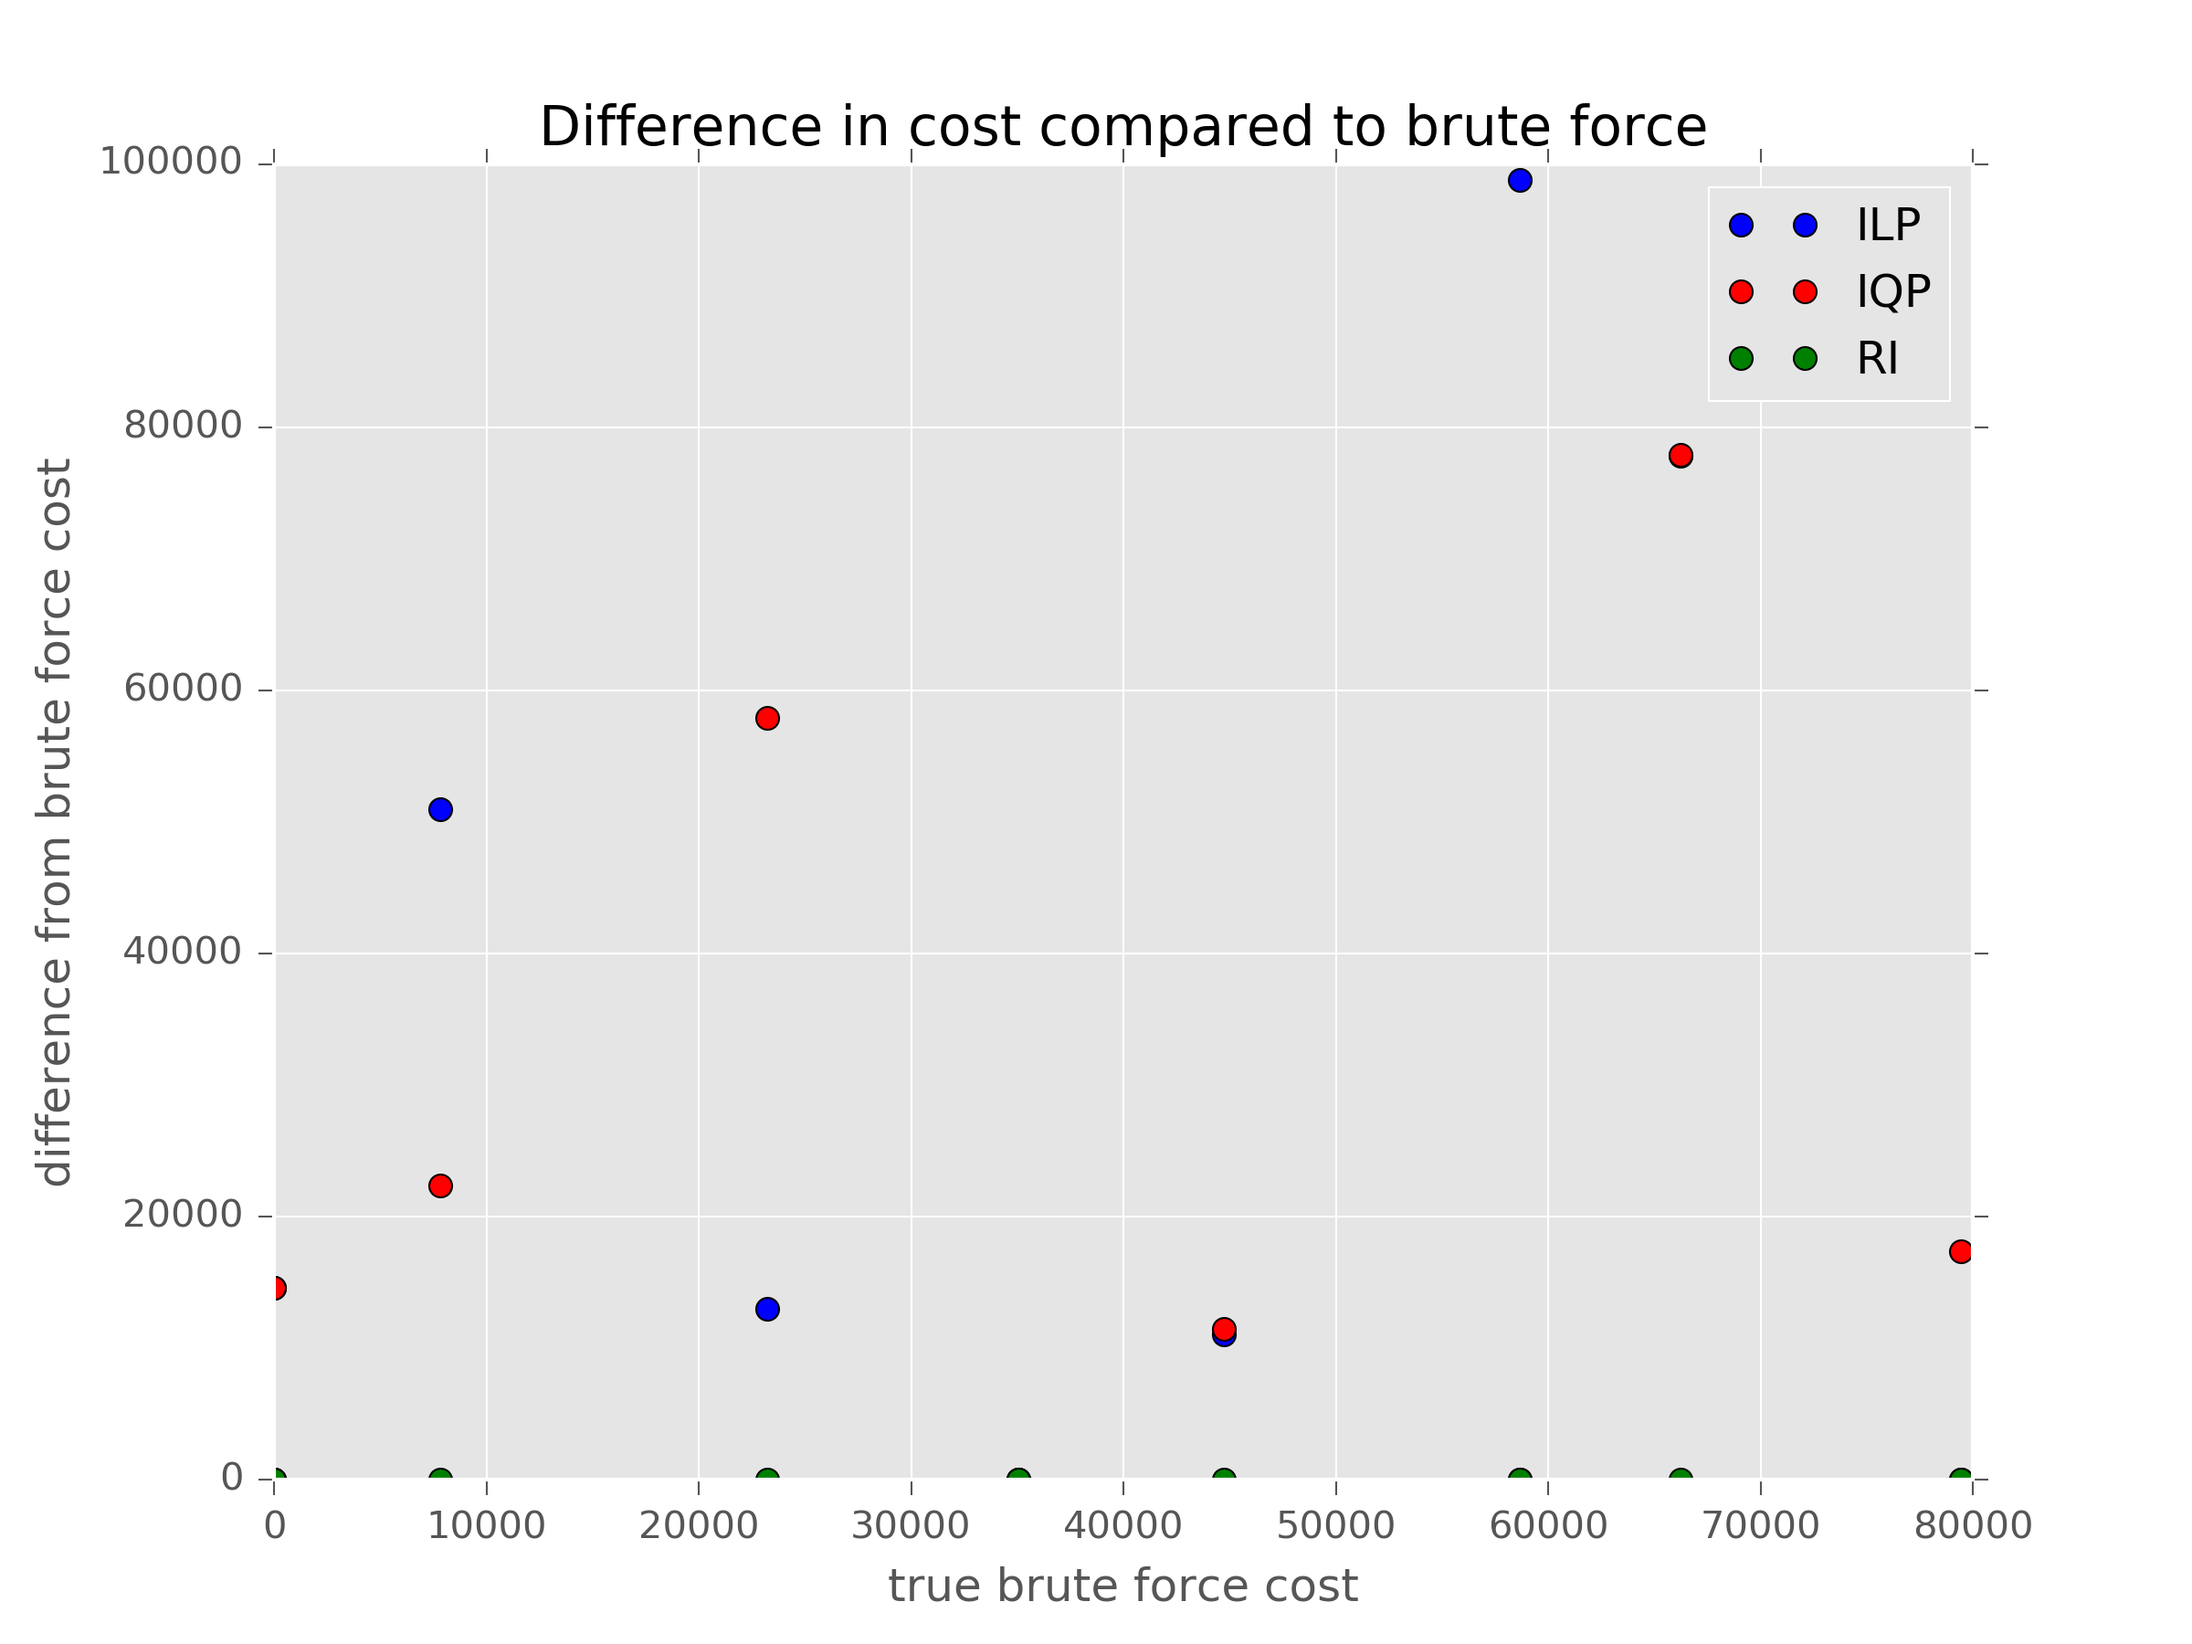
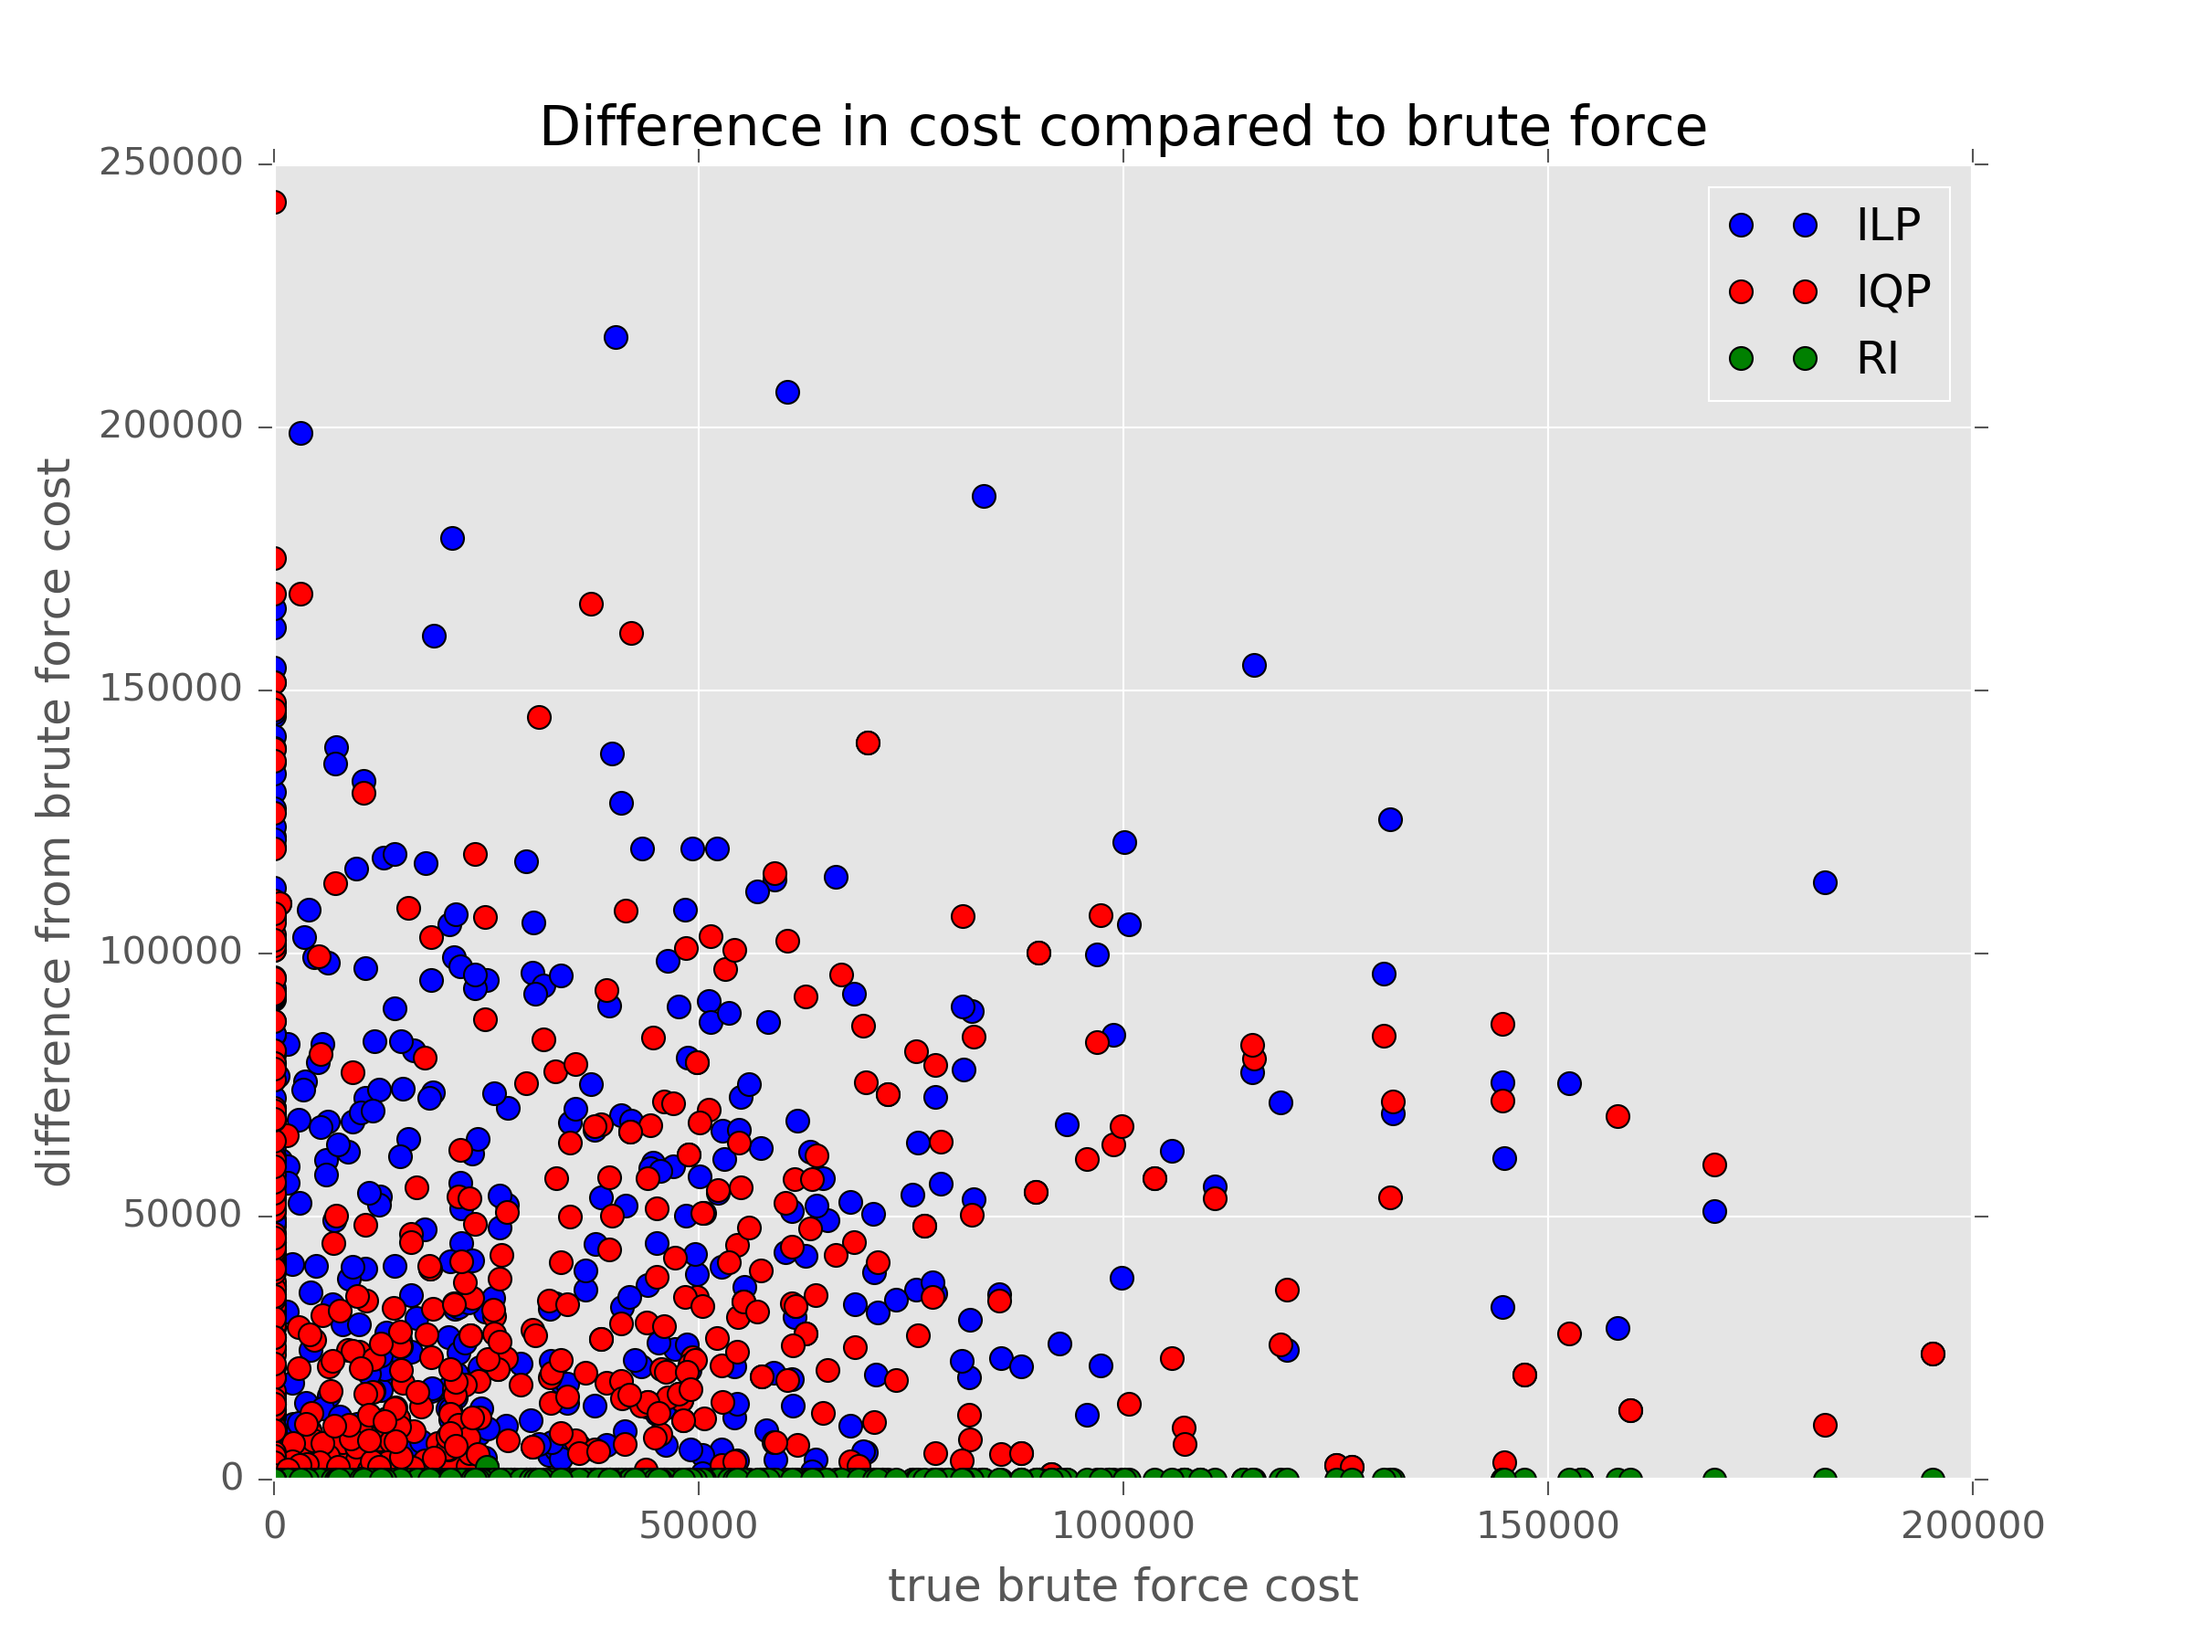
June 20 simulations. Sigh.

diff --git a/pysrc/june_20.py b/pysrc/june_20.py
@@ -11,7 +11,7 @@ iqp_response = []
 ilp_response = []
 ri_response = []
 
-for i in range(10):
+for i in range(1000):
     a = VMM(3, 6)
     a.generate()
     x = {}
